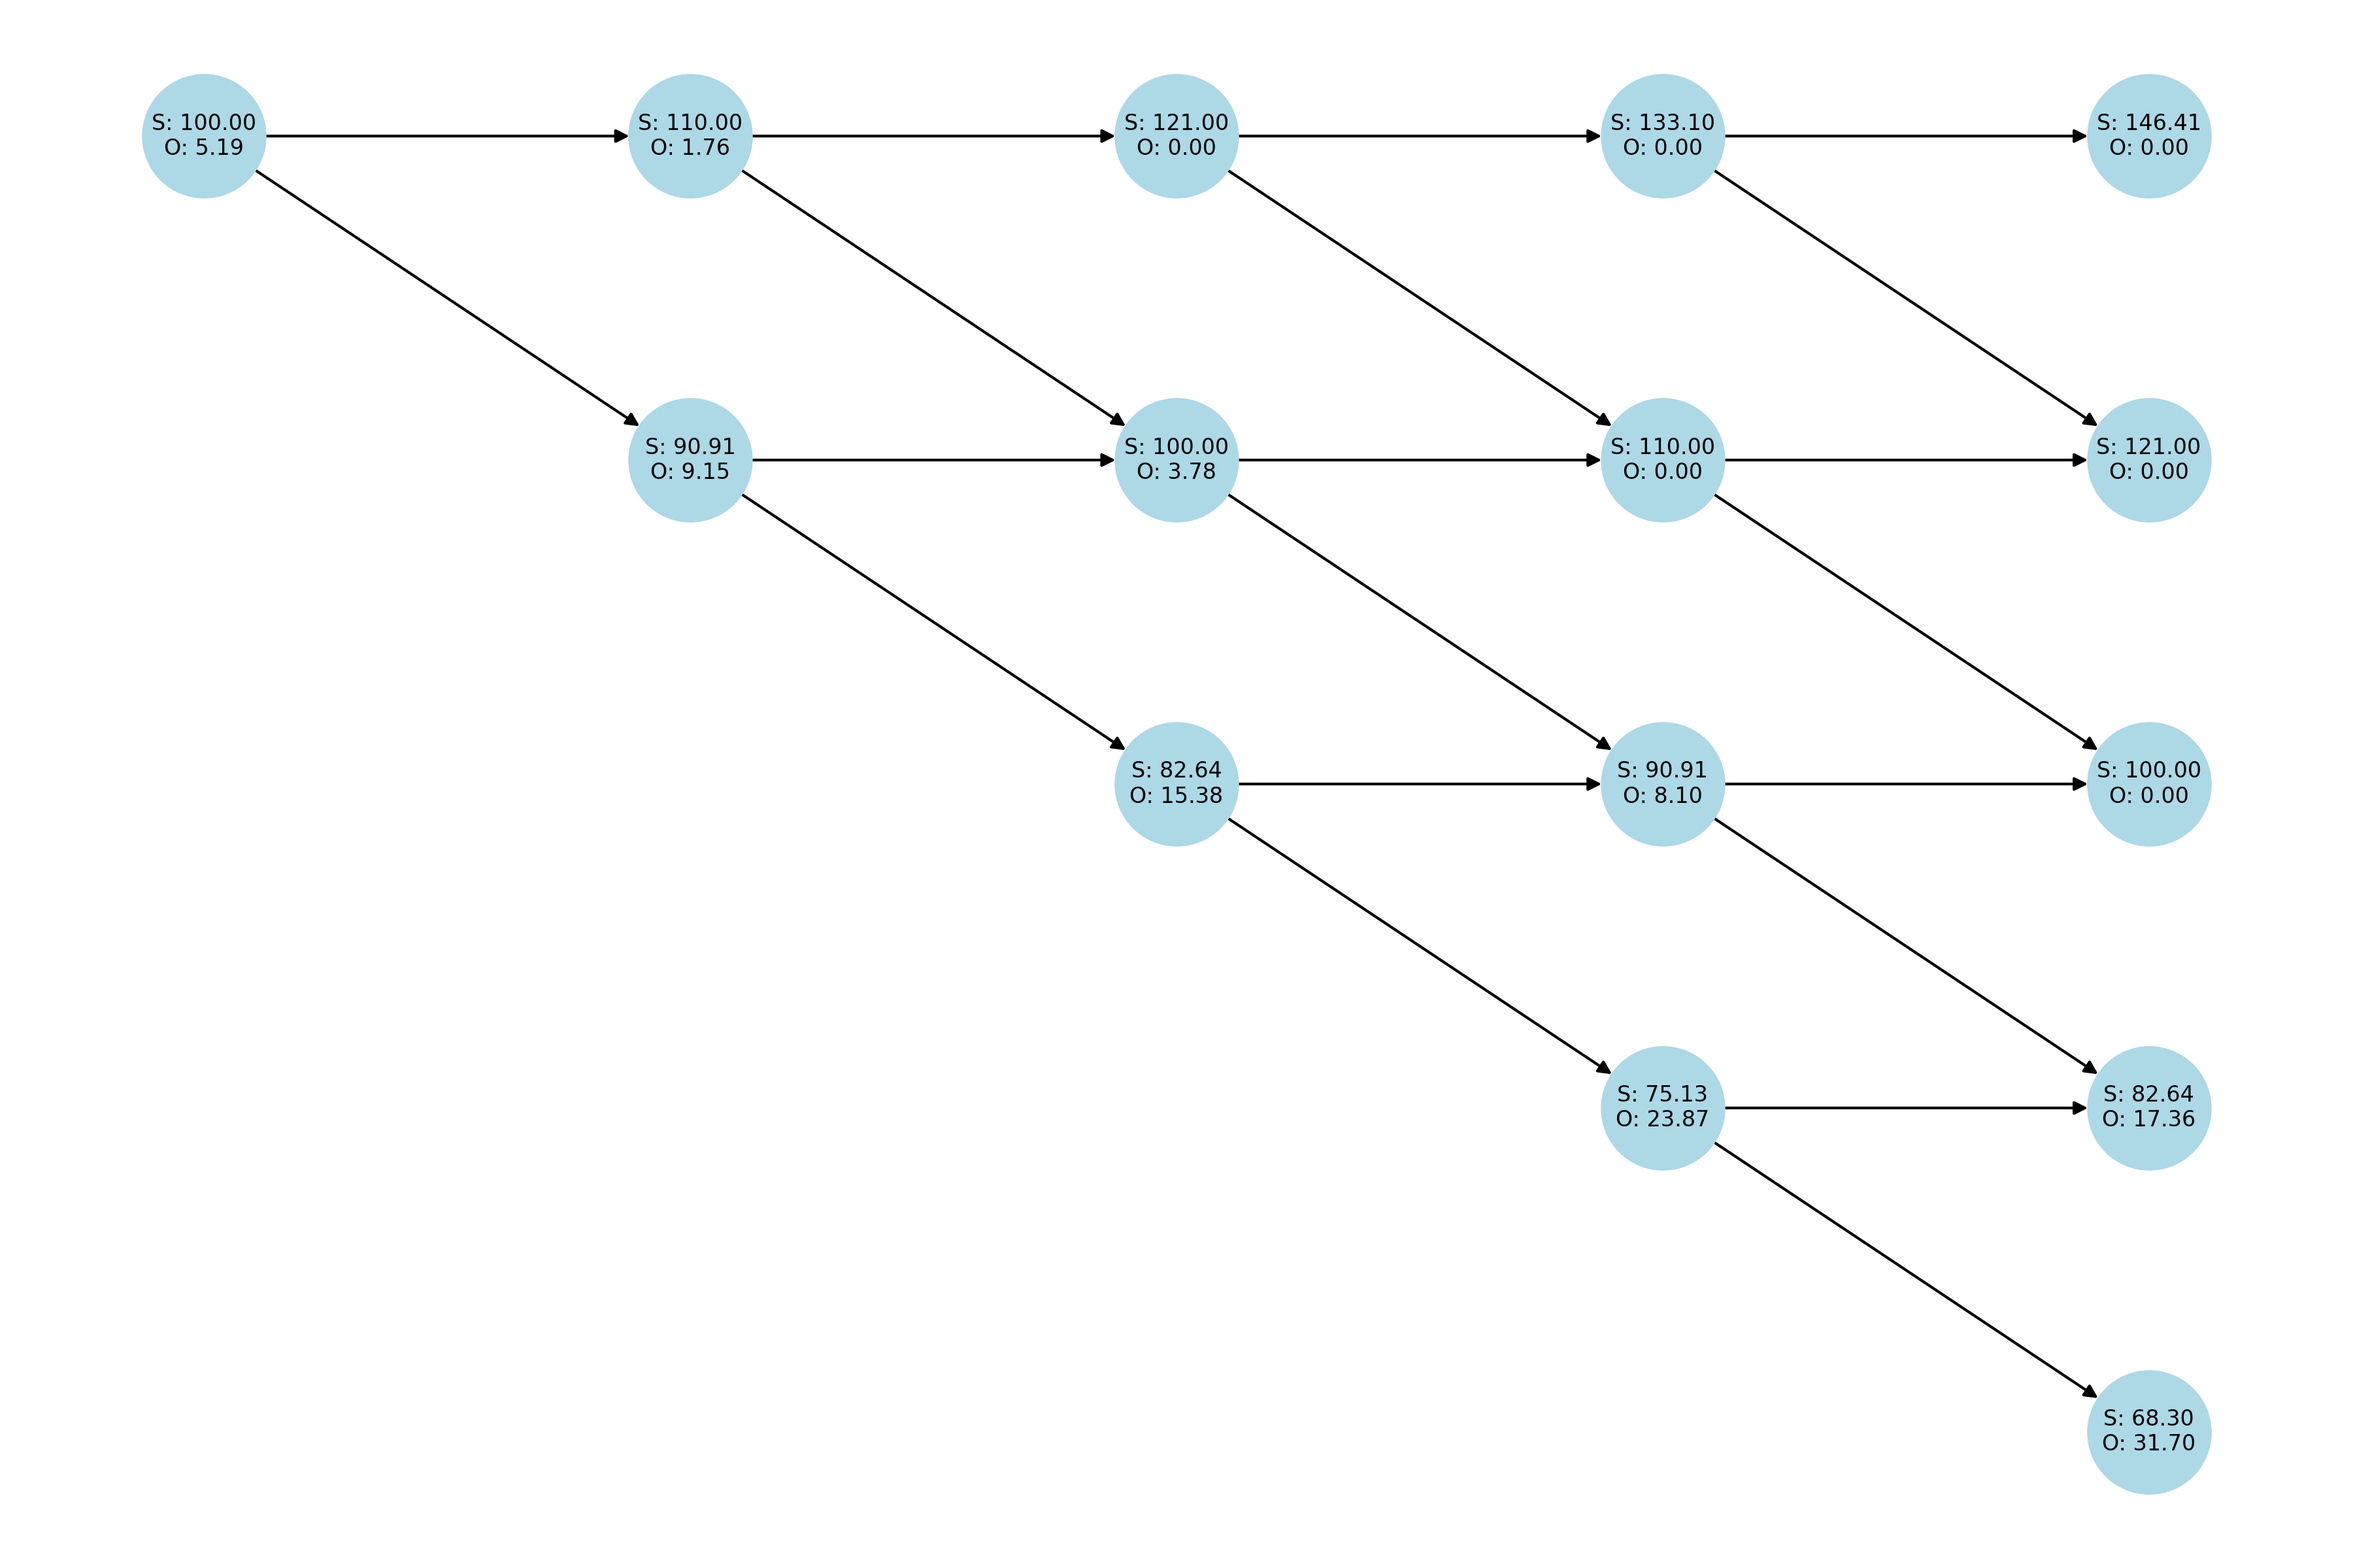
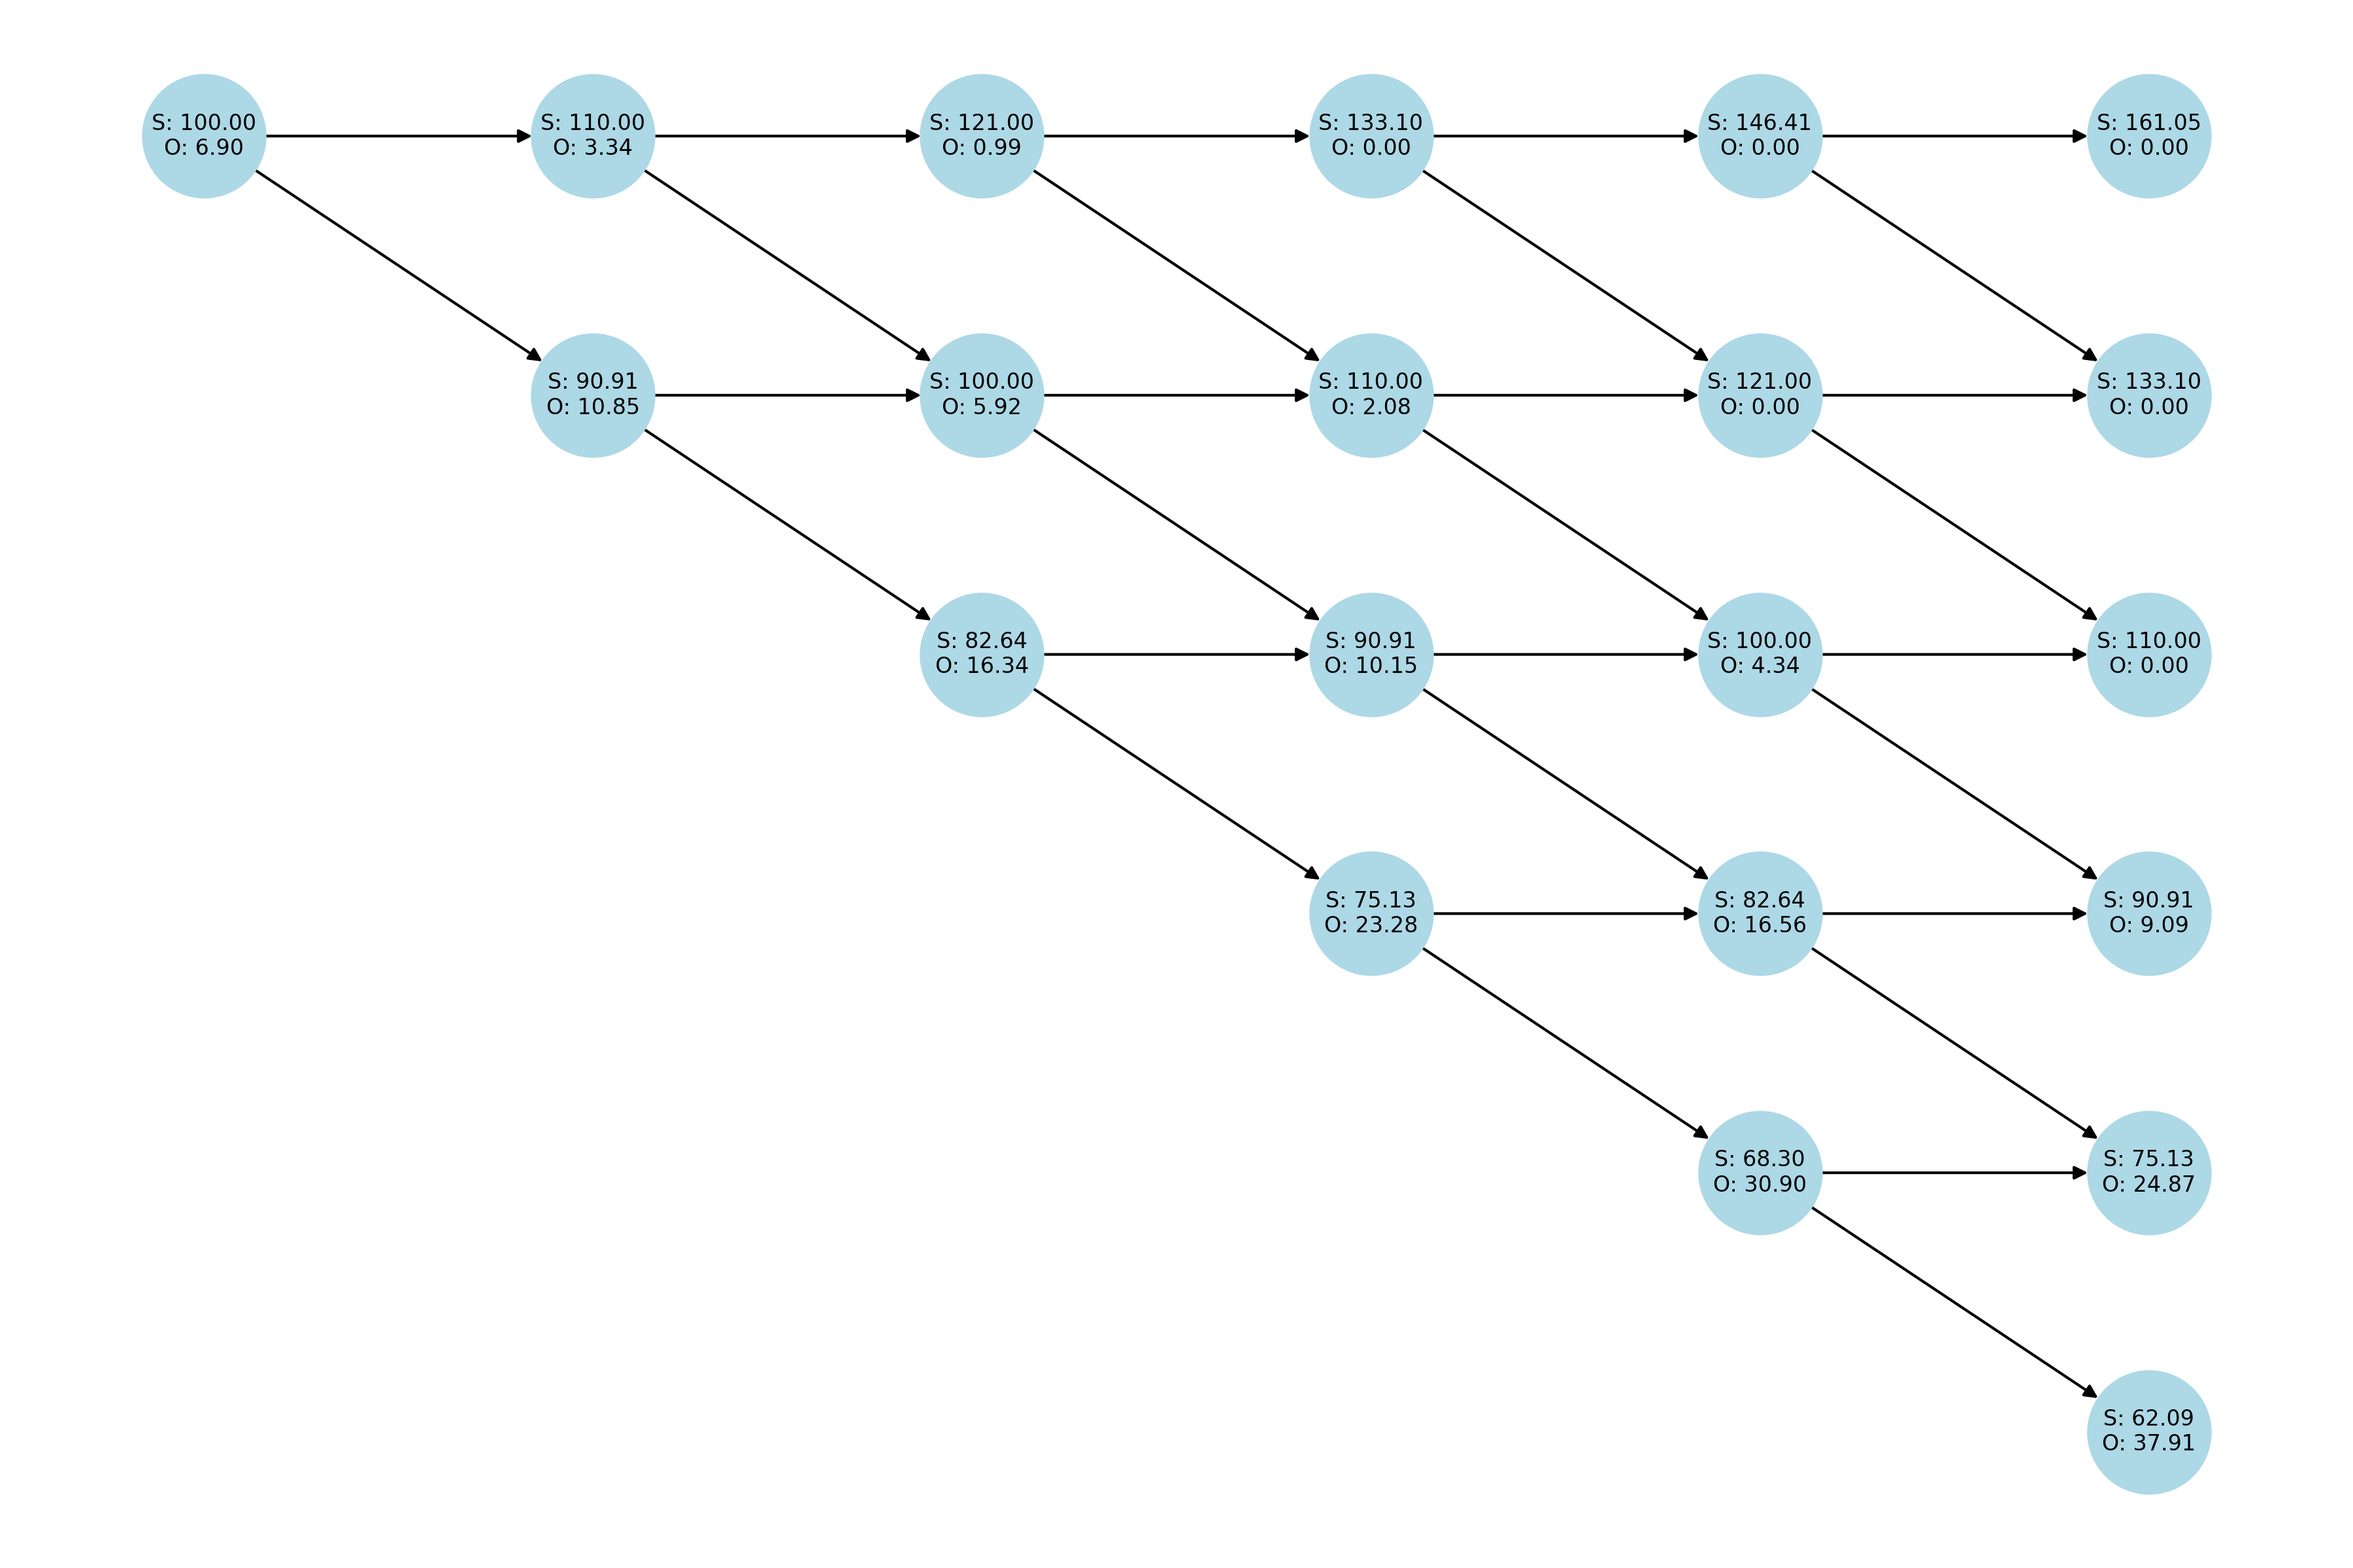
working

diff --git a/fundamentals/test/test_binomial_option_pricing.py b/fundamentals/test/test_binomial_option_pricing.py
@@ -192,7 +192,7 @@ if __name__ == "__main__":
     S0 = 100          # Initial stock price
     K = 100           # Strike price
     r = 0.04          # Annual interest rate
-    N = 4             # Number of periods
+    N = 5             # Number of periods
     u = 1.1           # Up factor
     d = 1/u           # Down factor
     option_type = 'p' # Put option
